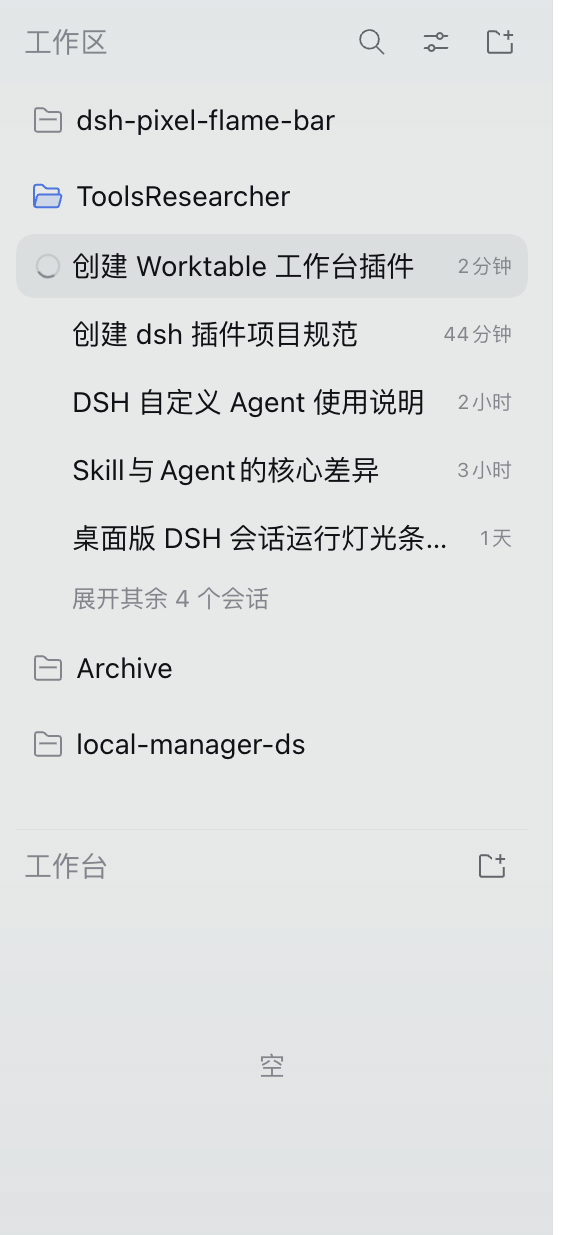
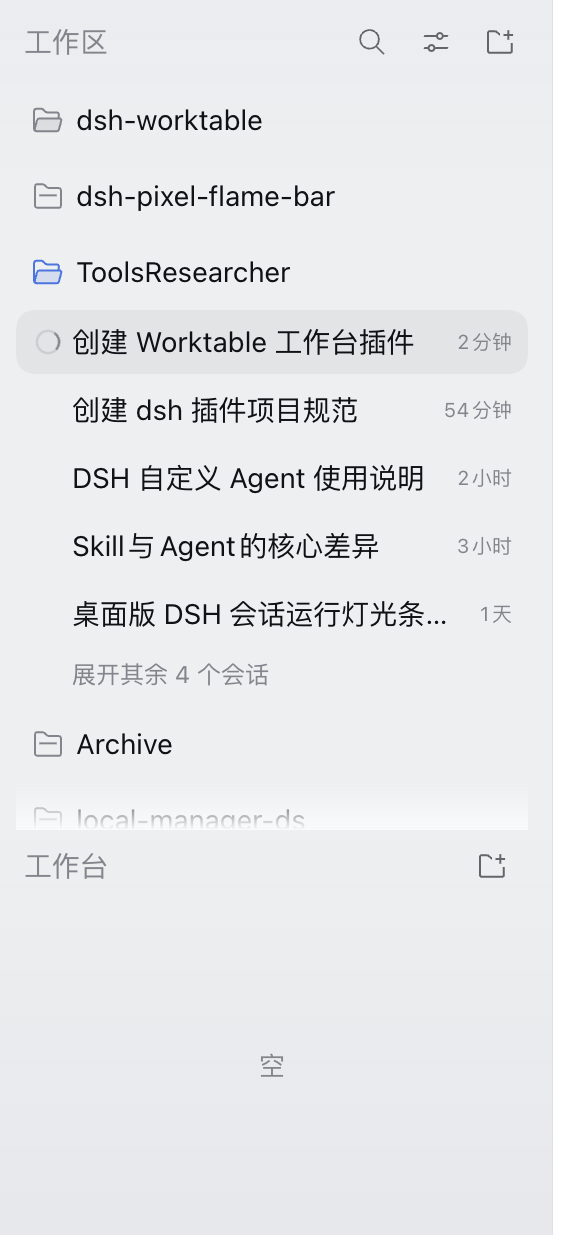
Add a workspace overflow fade above the Worktable pane

diff --git a/client.js b/client.js
@@ -55,7 +55,10 @@ window.__ModuleLoader__.load({
     const CSS = [
       'div:has(> [data-slot="sidebar.footer.action"] > .dsh-worktable),div:has(> * > [data-slot="sidebar.footer.action"] > .dsh-worktable){display:contents}',
       'div:has(> [data-slot="sidebar.workspaces"]){flex:2 1 0;min-height:0}',
-      '.dsh-worktable{box-sizing:border-box;display:flex;flex:1 1 0;flex-direction:column;width:100%;min-width:0;min-height:0;border-top:.5px solid var(--dsw-alias-border-l1);font-size:14px;line-height:20px;color:var(--dsw-alias-label-primary)}',
+      '.dsh-worktable{position:relative;box-sizing:border-box;display:flex;flex:1 1 0;flex-direction:column;width:100%;min-width:0;min-height:0;border-top:.5px solid var(--dsw-alias-border-l1);font-size:14px;line-height:20px;color:var(--dsw-alias-label-primary)}',
+      '.dsh-worktable__fade{position:absolute;z-index:1;left:0;right:0;bottom:100%;height:24px;pointer-events:none;opacity:0;background:linear-gradient(to bottom,transparent,var(--dsw-specific-sidebar-fill));transition:opacity .12s var(--ds-ease-in-out)}',
+      '.dsh-worktable__fade[data-visible="true"]{opacity:1}',
+      ':root:not([data-platform="darwin"]) .dsh-worktable__fade{display:none}',
       '.dsh-worktable__header{box-sizing:border-box;display:flex;flex:none;align-items:center;gap:4px;width:100%;min-width:0;height:36px;padding:0 4px;color:var(--dsw-alias-label-tertiary)}',
       '.dsh-worktable__label{flex:1;min-width:0;overflow:hidden;white-space:nowrap;text-overflow:ellipsis}',
       '.dsh-worktable__add{box-sizing:border-box;display:inline-flex;flex:none;align-items:center;justify-content:center;width:28px;height:28px;padding:0;border:0;border-radius:var(--dsw-radius-sm);background:transparent;color:var(--dsw-alias-label-secondary);cursor:pointer}',
@@ -67,7 +70,7 @@ window.__ModuleLoader__.load({
       '.dsh-worktable__tooltip[data-side="bottom"]{transform:translate(-50%)}',
       '.dsh-worktable__tooltip[data-side="top"]{transform:translate(-50%,-100%)}',
       '@keyframes dsh-worktable-tooltip-in{0%{opacity:0}}',
-      '@media (prefers-reduced-motion:reduce){.dsh-worktable__tooltip{animation:none}}',
+      '@media (prefers-reduced-motion:reduce){.dsh-worktable__tooltip{animation:none}.dsh-worktable__fade{transition:none}}',
     ].join('\n');
 
     /**
@@ -239,6 +242,104 @@ window.__ModuleLoader__.load({
     }
 
     /**
+     * Tracks whether the Workspaces scroller has content below its viewport.
+     *
+     * The shipped browser renders a bottom fade but hides it on macOS, and the
+     * workspace list now lives in a shorter pane, so this pane draws its own
+     * fade. The scroller is located by its computed overflow rather than by a
+     * hashed class name, and the watchers are rebound if the browser replaces
+     * its list. Only a scroll position at the very end hides the fade.
+     *
+     * @param wide - whether the sidebar renders its wide content.
+     * @returns true while the workspace content continues below the viewport.
+     */
+    function useWorkspaceOverflow(wide) {
+      const [overflowing, setOverflowing] = React.useState(false);
+
+      React.useEffect(() => {
+        if (!wide) {
+          setOverflowing(false);
+          return undefined;
+        }
+
+        const region = document.querySelector('[data-slot="sidebar.workspaces"]');
+        if (region === null) return undefined;
+
+        let scroller = null;
+        let resizeObserver = null;
+        let frame = 0;
+        let disposed = false;
+
+        function findScroller() {
+          let best = null;
+          for (const element of region.querySelectorAll('*')) {
+            const overflowY = getComputedStyle(element).overflowY;
+            if (overflowY !== 'auto' && overflowY !== 'scroll') continue;
+            if (element.clientHeight === 0) continue;
+            if (best === null || element.clientHeight > best.clientHeight) {
+              best = element;
+            }
+          }
+          return best;
+        }
+
+        function schedule() {
+          if (frame === 0) frame = requestAnimationFrame(measure);
+        }
+
+        function measure() {
+          frame = 0;
+          if (disposed) return;
+          if (scroller === null || !region.contains(scroller)) bind(findScroller());
+          if (scroller === null) {
+            setOverflowing(false);
+            return;
+          }
+          const hasMore = scroller.scrollHeight > scroller.clientHeight + 1;
+          const atBottom =
+            scroller.scrollTop + scroller.clientHeight >= scroller.scrollHeight - 1;
+          setOverflowing(hasMore && !atBottom);
+        }
+
+        function bind(next) {
+          if (scroller !== null) scroller.removeEventListener('scroll', schedule);
+          if (resizeObserver !== null) resizeObserver.disconnect();
+          scroller = next;
+          if (scroller === null) return;
+          scroller.addEventListener('scroll', schedule, { passive: true });
+          resizeObserver = new ResizeObserver(schedule);
+          resizeObserver.observe(scroller);
+        }
+
+        bind(findScroller());
+
+        // The browser can swap the scroller when its view changes, and list
+        // expansion or filtering changes the content height without a resize.
+        const observer = new MutationObserver(schedule);
+        observer.observe(region, {
+          childList: true,
+          subtree: true,
+          characterData: true,
+          attributes: true,
+          attributeFilter: ['class', 'style', 'aria-expanded', 'data-state'],
+        });
+        window.addEventListener('resize', schedule);
+        schedule();
+
+        return () => {
+          disposed = true;
+          if (frame !== 0) cancelAnimationFrame(frame);
+          observer.disconnect();
+          window.removeEventListener('resize', schedule);
+          if (resizeObserver !== null) resizeObserver.disconnect();
+          if (scroller !== null) scroller.removeEventListener('scroll', schedule);
+        };
+      }, [wide]);
+
+      return overflowing;
+    }
+
+    /**
      * The Worktable pane: a static header plus the list area.
      *
      * @param props - the slot's `wide` owner prop (`false` in the 56px rail)
@@ -246,6 +347,8 @@ window.__ModuleLoader__.load({
      * @returns the pane, or null while the sidebar is collapsed to its rail.
      */
     function WorktableSection({ wide, t }) {
+      const workspaceOverflowing = useWorkspaceOverflow(wide);
+
       // The rail has no room for a below-the-body pane.
       if (!wide) return null;
 
@@ -253,6 +356,12 @@ window.__ModuleLoader__.load({
         'div',
         { className: 'dsh-worktable', 'data-worktable': 'section' },
         h('style', { key: 'styles' }, CSS),
+        h('span', {
+          key: 'fade',
+          className: 'dsh-worktable__fade',
+          'data-visible': workspaceOverflowing ? 'true' : 'false',
+          'aria-hidden': 'true',
+        }),
         h(
           'div',
           { className: 'dsh-worktable__header' },

diff --git a/README.md b/README.md
@@ -6,6 +6,7 @@ DSH 侧边栏插件：在左侧边栏主体内、**工作区下方**增加一个
 
 - 位于工作区列表下方、设置行上方；工作区约 2/3，工作台约 1/3。
 - 工作台上方一条 `0.5px` 细线（`--dsw-alias-border-l1`），与工作区分开。
+- 工作区内容超出可视高度时，在工作区底部（紧贴分割线上方）显示 24px 的淡出渐变，表示下面还有内容；滚动到列表末尾或内容未溢出时自动隐藏。渐变与自带 Workspace 浏览器的 fade 使用同一高度与 `--dsw-specific-sidebar-fill`，并在自带 fade 可见的平台（非 macOS）自动停用，避免叠加。
 - 顶部是静态分区头：左侧本地化标题「工作台 / Worktable」，右侧的添加按钮使用与原生工作区**完全相同**的文件夹加号图标（`IconProjectAddOutlineRegular`，16px / 1px 描边）；**没有展开 / 收起交互**。
 - 添加按钮在 hover / focus 时显示与原生 `Tooltip` 同样的提示气泡：同样的主题 token、13px 字号、下方 8px 间距、500ms hover 延迟，空间不足时翻到上方；因添加工作台暂无快捷键，不显示快捷键行。
 - 列表区始终显示；尚无工作台项目时，在列表区中央显示「空 / Empty」。
@@ -58,6 +59,7 @@ node --check client.js
 - **结构限制**：侧边栏主体是 `sidebar.workspaces` 这个 `single` slot（由 ui-workspace 的 WorkspaceBrowser 整体占用），ui-sidebar 没有提供“主体内同级分区列表”的座位。因此工作台只能先注册到工作区下方唯一的列表座位 `sidebar.footer.action`。
 - **提升为同级分栏**：注册后通过 `display: contents` 把 `sidebar.footer.action` 的宿主容器（footer 动作行与 foot 容器）摊平，让工作台分区在布局上成为侧边栏列的直接子项；工作区容器设为 `flex: 2 1 0`，工作台设为 `flex: 1 1 0`，即 2:1。这是一处针对宿主侧边栏内部结构的 CSS 适配：自带结构变化时会退化为 footer 内条目，不会影响插件加载。
 - **分割线**：工作台分区 `border-top: 0.5px solid var(--dsw-alias-border-l1)`，宽度跟随侧边栏内容区，浅色 / 深色都由 token 决定。
+- **底部淡出**：自带 Workspace 浏览器其实渲染了底部 fade，但在 macOS 上被 `[data-platform=darwin]` 隐藏。工作台分区因此在自己的顶部上方绘制一条 24px 渐变（`bottom: 100%`），用 `MutationObserver` / `ResizeObserver` / `scroll` 监听工作区滚动容器，仅当内容溢出且未滚到末尾时显示；滚动容器按 `overflow-y` 计算值查找，不依赖哈希类名，视图切换替换容器时会自动重新绑定。
 - **添加图标与提示**：图标路径直接取自自带 `IconProjectAddOutlineRegular`（文件夹 + 右上角加号，16px、1px 描边），与工作区按钮一致。提示气泡没有引入 `@deepseek-ai/dsh-client-ui-primitives`，而是按原生 `Tooltip` 的标记和样式复刻：`--dsw-alias-tooltip-bg` / `--dsw-static-neutral-bluish-00`、13px/20px、下方 8px、500ms 延迟、12px 视口内缩与上下翻转，`pointer-events: none`。
 - **附带影响**：摊平只在工作台分区存在时生效；同一 footer 槽位的其它条目（例如会话运行灯条）也会随之成为侧边栏列的直接子项并按整行排列。关闭本插件后立即恢复原状。
 - **本地化**：`ctx.locale.register('dsh-worktable', { zh, en })` 注册字典，slot 注册时传 `locale: 'dsh-worktable'`，组件从注入的 `t` 取文案；`locale/*.json` 只负责插件管理页的标题与描述。切换语言时 slot 会随 locale revision 重新渲染。
